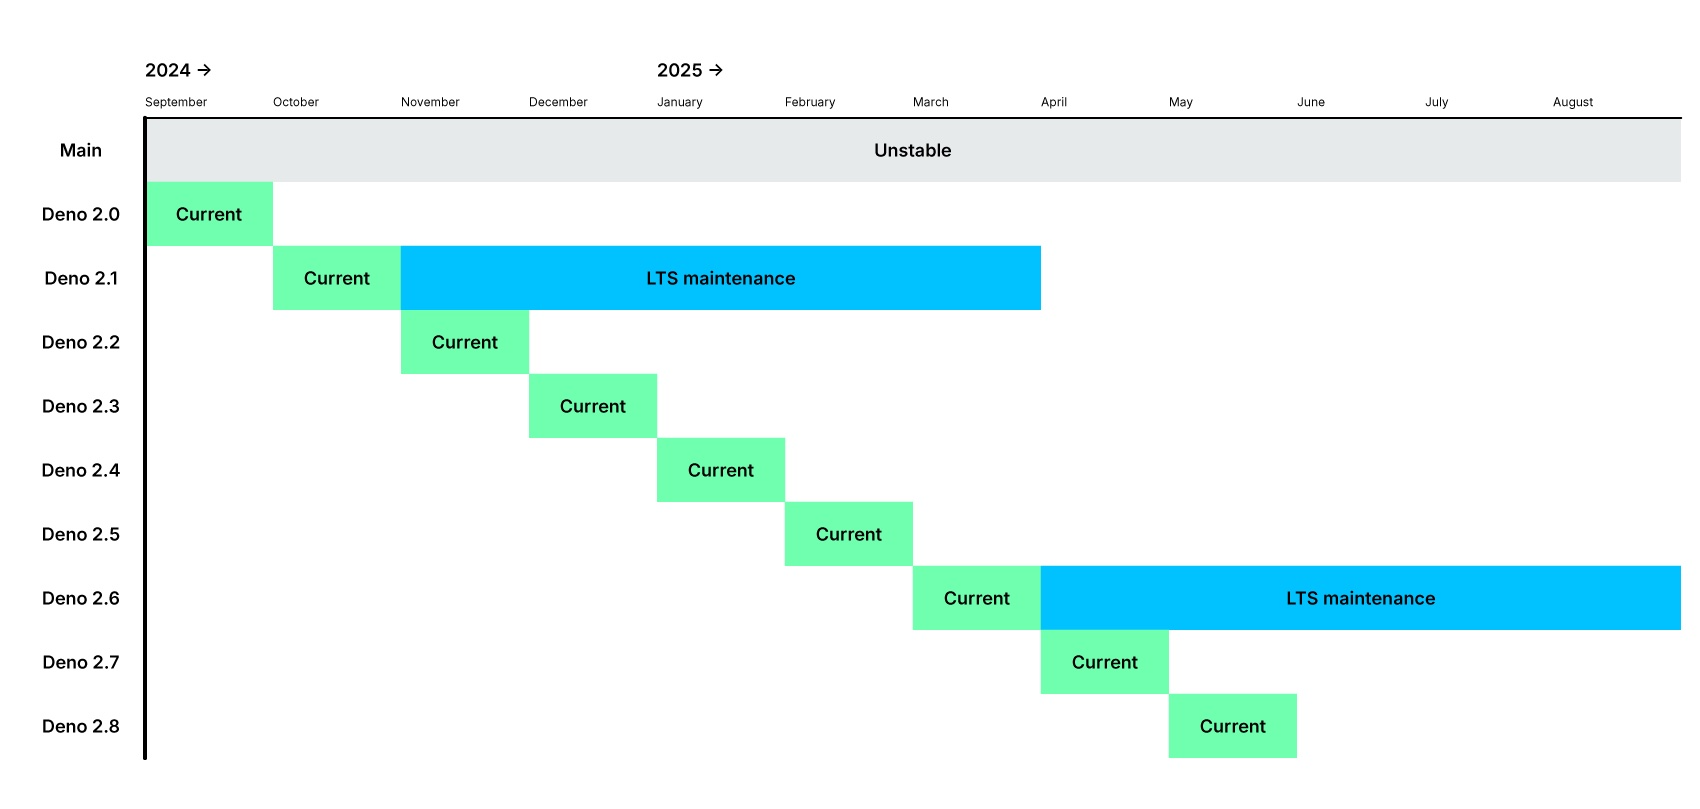
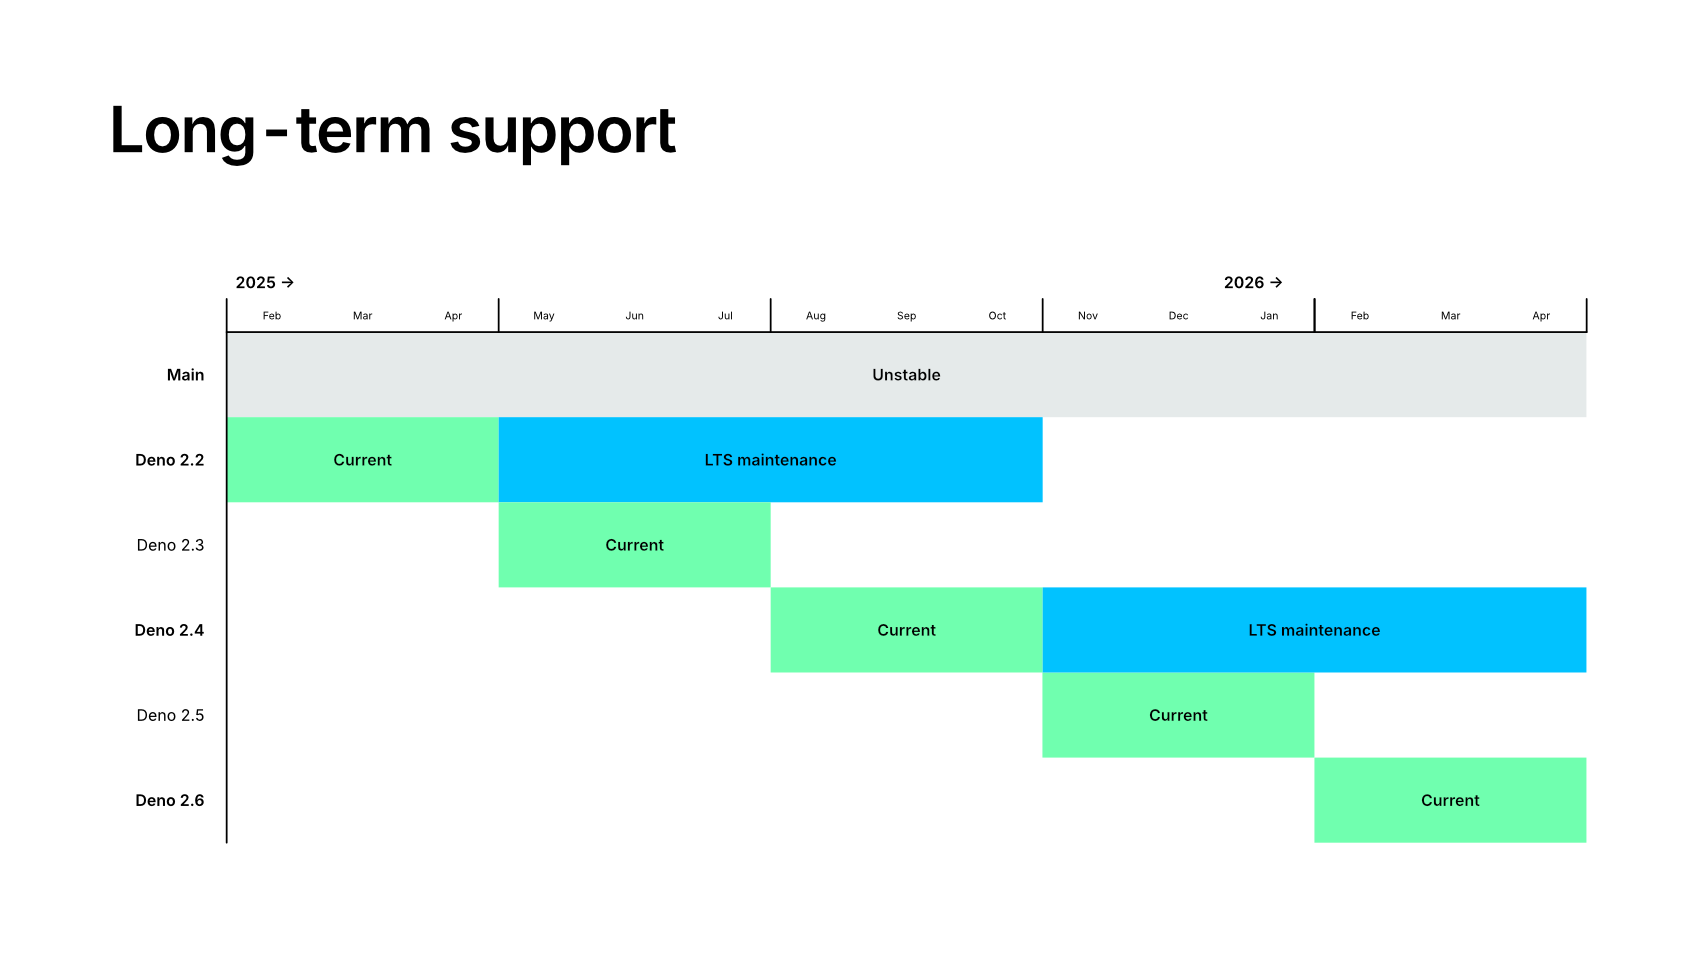
Update LTS graphic and description (#1469)

diff --git a/runtime/fundamentals/stability_and_releases.md b/runtime/fundamentals/stability_and_releases.md
@@ -32,24 +32,25 @@ Deno offers 4 release channels
 
 ### Long Term Support (LTS)
 
-Starting with Deno v2.1.0 (released in November 2024) Deno offers a LTS
+Starting with Deno v2.1.0 (released in November 2024), Deno offers an LTS
 (long-term support) channel.
 
-An LTS channel is a semver minor version that we maintain with only backwards
-compatible bug fixes.
+An LTS channel is a minor semver version that we maintain with only
+backwards-compatible bug fixes.
 
-![Deno long term support schedule](./images/deno-lts-support.png)
+![Deno long-term support schedule](./images/deno-lts-support.png)
 
-A new LTS version is twice per year and **supported for 6 months**, giving users
-a month long window to upgrade between LTS relases. A new patch version of an
-LTS channel will be released at least **once per quarter**.
+We are initially keeping the LTS support window short while we refine the
+process. **LTS releases occur every six months**, with patch releases as needed
+for bug fixes. We plan to extend this support window to one year in the future.
 
-LTS eligible backports include security fixes and defect fixes (crashes, wrong
-answers).
+LTS backports include:
 
-Critical performance improvements **may** be backported based on severity.
+- Security patches
+- Critical bug fixes (e.g., crashes, incorrect computations)
+- **Critical** performance improvements _may_ be backported based on severity.
 
-API changes and major new features **will not** be backported.
+**API changes and major new features will not be backported.**
 
 ## Unstable APIs
 
